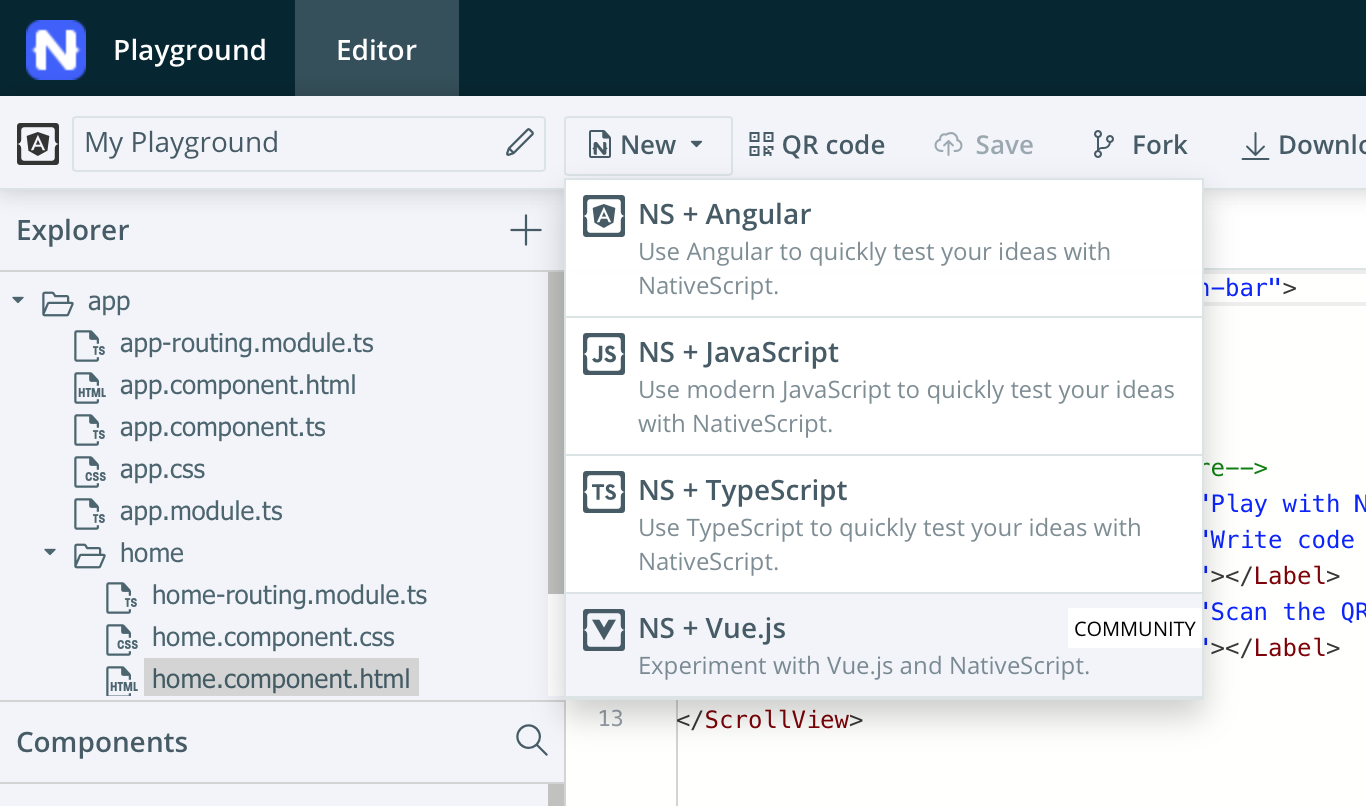
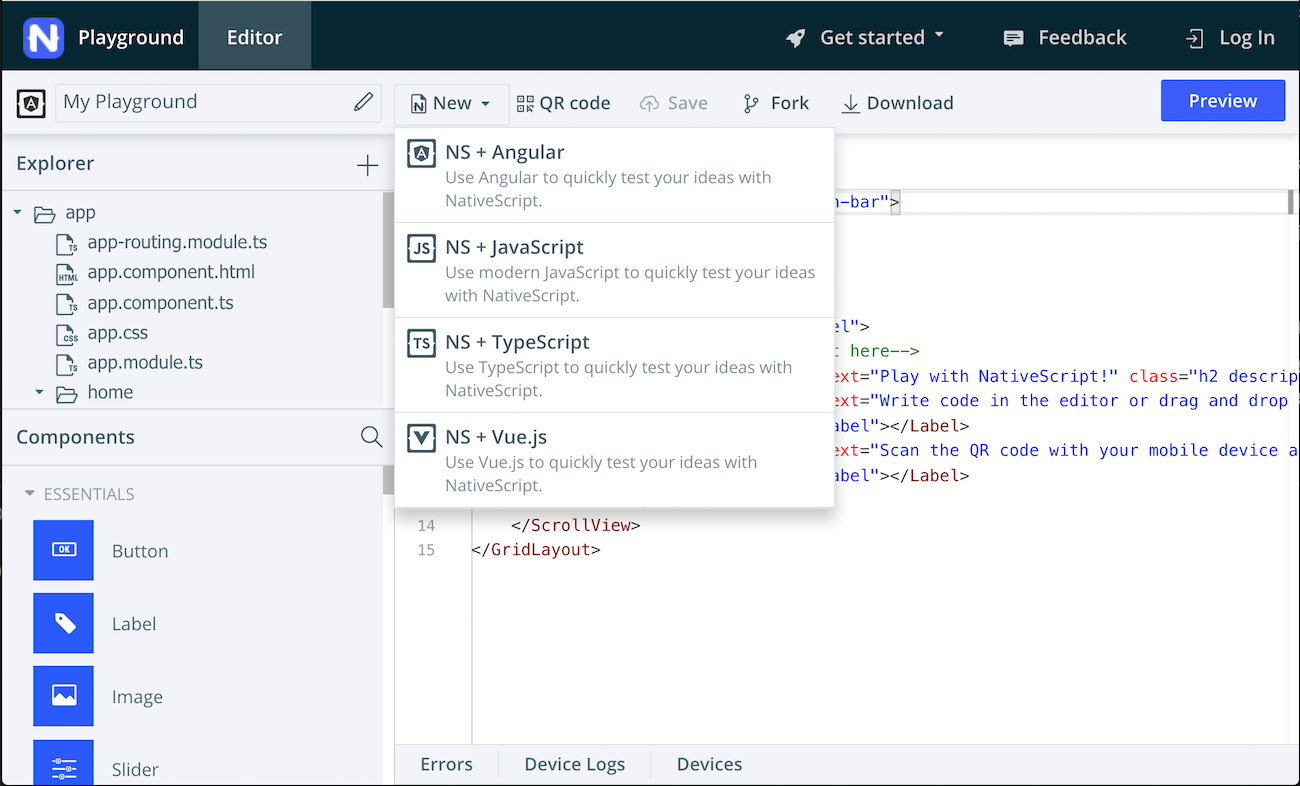
nano 6 and changes for playground images

diff --git a/.vuepress/config.js b/.vuepress/config.js
@@ -38,6 +38,7 @@ module.exports = {
 					'/workshop/nanos/nano3',
 					'/workshop/nanos/nano4',
 					'/workshop/nanos/nano5',
+					'/workshop/nanos/nano6',
 				],
 			},
 		],

diff --git a/workshop/nanos/nano6.md b/workshop/nanos/nano6.md
@@ -1,0 +1,228 @@
+# 😻 Nano Activity 6: Create a Mobile App to Spread Emoji Love (Beginner)
+
+| **Project Goal**            | In this nano you will learn how to create a cute mobile app to display and send emoji to friends.                                                                                                                                   |
+| --------------------------- | ------------------------------------------------------------------------------------------------------------------------------------------------------------------------------------------------ |
+| **What you’ll learn**       | You'll scaffold a NativeScript-Vue App in the playground and build a list that you can send via the Social Share plugin.                                                                                             |
+| **Tools you’ll need**       | A modern browser like Chrome. A mobile device (iOS or Android). Access to the [NativeScript Playground](http://play.nativescript.org) - consider creating an account in the Playground to keep the versions of your work intact. A mobile phone (iOS or Android) with the NativeScript Playground and Viewer apps installed.<br><br>On Android: [NativeScript Playground](https://play.google.com/store/apps/details?id=org.nativescript.play) and [NativeScript Preview](https://play.google.com/store/apps/details?id=org.nativescript.preview).<br><br>On iOS: [NativeScript Playground](https://itunes.apple.com/us/app/nativescript-playground/id1263543946) and [NativeScript Preview](https://itunes.apple.com/us/app/nativescript-preview/id1264484702) |
+| **Time needed to complete** | 10 minutes
+
+
+# Create an emoji-sharing mobile app
+
+Let's learn how to build a mobile app with NativeScript-Vue, a custom implementation of Vue.js that you can use to build native mobile apps for iOS or Android. You'll create a list and use the built-in Social Sharing plugin to send emoji to friends.
+
+## Scaffold Your App
+
+Open the [NativeScript Playground](http://play.nativescript.org) and take a look around. On your first visit, before you create an account, you'll see a modal with instructions on how to download the two apps you need to use the playground.
+
+Here is the main editor with a few files provided for an app. By default, the first playground app is created using Angular. Click 'new' at the top and choose the 'NS + Vue.js' template. This is how you scaffold your first NativeScript-Vue app!
+
+When you click the `QR Code` button, a QR code will appear - scan that with the NativeScript Playground app on your phone. This allows your phone to refresh automatically as you code. You'll see your phone refresh and a basic app appear:
+
+![base app](./images/playground1.png)
+
+::: tip 💡
+If you ever need to fully refresh your app on your device, you can recreate your QR code and re-scan it using the Playground app.
+:::
+
+## Add Some Styles
+
+Let's add some nice styles to your mobile app. NativeScript-Vue comes with several built-in themes and the app is scaffolded to support them with proper class names. You can see a line in the `app.css` file referencing a theme's style sheet. Change it to use a different style sheet:
+
+```css
+@import '~nativescript-theme-core/css/orange.css';
+```
+
+Play around with other themes like `sky` or `forest` or `ruby`. Get creative!
+
+Change the title in the ActionBar to rename your app: 
+
+```xml
+<ActionBar title="MyMojis" class="action-bar" />
+```
+
+You won't need any of the local styles in the `<style>` block at the bottom of `HelloWorld.vue` so you can delete them.
+
+## Add List Data
+
+We're going to build a list populated with emoji. There's a treasure trove of emoji, sorted into a JSON object and labeled, on this [repo](https://github.com/shanraisshan/EmojiCodeSheet). Dig into the JSON/string folder on that repo to take a look at [emoji associated with people](https://github.com/shanraisshan/EmojiCodeSheet/blob/master/json/string/People.json).
+
+You can borrow some JSON to help build up some data for your app to display. Overwrite the `data` object in `HelloWorld.vue` with emoji. You can use this code, or borrow some other JSON from the repo above:
+
+```JavaScript
+data() {
+            return {
+                people: [{
+                        key: "grinning_face",
+                        value: "😀"
+                    },
+                    {
+                        key: "grimacing_face",
+                        value: "😬"
+                    },
+                    {
+                        key: "grimacing_face_with_smile_eyes",
+                        value: "😁"
+                    },
+                    {
+                        key: "face_with_tear_of_joy",
+                        value: "😂"
+                    },
+                    {
+                        key: "smiling_face_with_open_mouth",
+                        value: "😃"
+                    },
+                    {
+                        key: "smiling_face_with_open_mouth_eyes",
+                        value: "😄"
+                    },
+                    {
+                        key: "vue_vixen",
+                        value: "🦊"
+                    },
+                ]
+            };
+        }
+```
+
+## Build the ListView
+
+Now, you need a place to display that data. NativeScript-Vue uses NativeScript modules to build native elements for your mobile app, so instead of using HTML elements like `<li>` or `<ul>`, we're going to use `<ListView>`. Delete all the markup under the `<ActionBar>` and before the closing `</Page>` tag. 
+
+Then, add:
+
+```XML
+<ListView class="list-group" for="person in people" style="height:1250px">
+    <v-template>
+        <FlexboxLayout flexDirection="row" class="list-group-item"
+            >
+                <Label :text="person.value" />
+                <Label :text="person.key" />
+        </FlexboxLayout>
+    </v-template>
+</ListView>
+```
+
+Now, when you app refreshes, you can see a list of emoji with their label. Add more emoji to your list and tweak the label, if you like, to make it more descriptive.
+
+## Make the List Interactive
+
+This list needs to do more than just sit there. Let's make it interactive by adding the ability to tap it and send an emoji.
+
+First, you need to implement the Social Share plugin to access your device's social apps like Twitter and WhatsApp. 
+
+Under `<script>`, add this line:
+
+```JavaScript
+import * as SocialShare from "nativescript-social-share";
+```
+The Social Share plugin is built into the Playground apps, so you don't have to do anything more to access it from within your app.
+
+Next, add a `methods` block under `export default {`:
+
+```JavaScript
+methods: {
+    share: function(person) {
+        SocialShare.shareText(person.value + "I just created an amazing mobile app with a Vue Vixens Nano! Check us out @VueVixens!");
+    }
+},
+```
+You now have a method available for the user to use the Social Share plugin.
+
+Finally, add a `@tap` event to your FlexBoxLayout, so that it looks like this:
+
+```XML
+<FlexboxLayout flexDirection="row" class="list-group-item" @tap="share(person)">
+```
+
+Now, when you save your app and tap on an element in the list, you are given a list of social apps (depending on what is installed on your device) with which to send the emoji you just tapped! 
+
+Go ahead, send a Tweet with your new app! 
+
+## Final Result
+
+Your entire app's code (all in `HelloWorld.vue`) looks like this:
+
+```XML
+<template>
+    <Page class="page">
+        <ActionBar title="MyMojis" class="action-bar" />
+        <ListView class="list-group" for="person in people" style="height:1250px">
+            <v-template>
+                <FlexboxLayout flexDirection="row" class="list-group-item"
+                    @tap="share(person)">
+                    <Label :text="person.value" />
+                    <Label :text="person.key" />
+                </FlexboxLayout>
+            </v-template>
+        </ListView>
+    </Page>
+</template>
+
+<script>
+    import * as SocialShare from "nativescript-social-share";
+    export default {
+        methods: {
+            share: function(person) {
+                SocialShare.shareText(person.value + "I just created an amazing mobile app with a Vue Vixens Nano! Check us out @VueVixens! #EveryDayWeSkulking");
+            }
+        },
+
+        data() {
+            return {
+                people: [{
+                        key: "grinning_face",
+                        value: "😀"
+                    },
+                    {
+                        key: "grimacing_face",
+                        value: "😬"
+                    },
+                    {
+                        key: "grimacing_face_with_smile_eyes",
+                        value: "😁"
+                    },
+                    {
+                        key: "face_with_tear_of_joy",
+                        value: "😂"
+                    },
+                    {
+                        key: "smiling_face_with_open_mouth",
+                        value: "😃"
+                    },
+                    {
+                        key: "smiling_face_with_open_mouth_eyes",
+                        value: "😄"
+                    },
+                    {
+                        key: "vue_vixen",
+                        value: "🦊"
+                    }
+                ]
+            };
+        }
+    };
+</script>
+
+```
+![final app](./images/mymoji_app.png)
+
+## Conclusion and Challenge
+
+Now that you know how to build a native mobile app with NativeScript-Vue, you can customize it however you like. 
+
+🎨 Change the styles and tweak the list so that it has more interesting labels next to the emoji. 
+
+😍 Add more emoji! 
+
+❤ And make sure to share your work socially using the Social Share capability you implemented. Have fun!
+
+## Badge
+
+Congratulations! You have earned a badge!
+
+![MyMoji](./images/mymoji-mobile-app-badge.png)
+
+## Author
+
+Made with ❤ by Jen Looper
